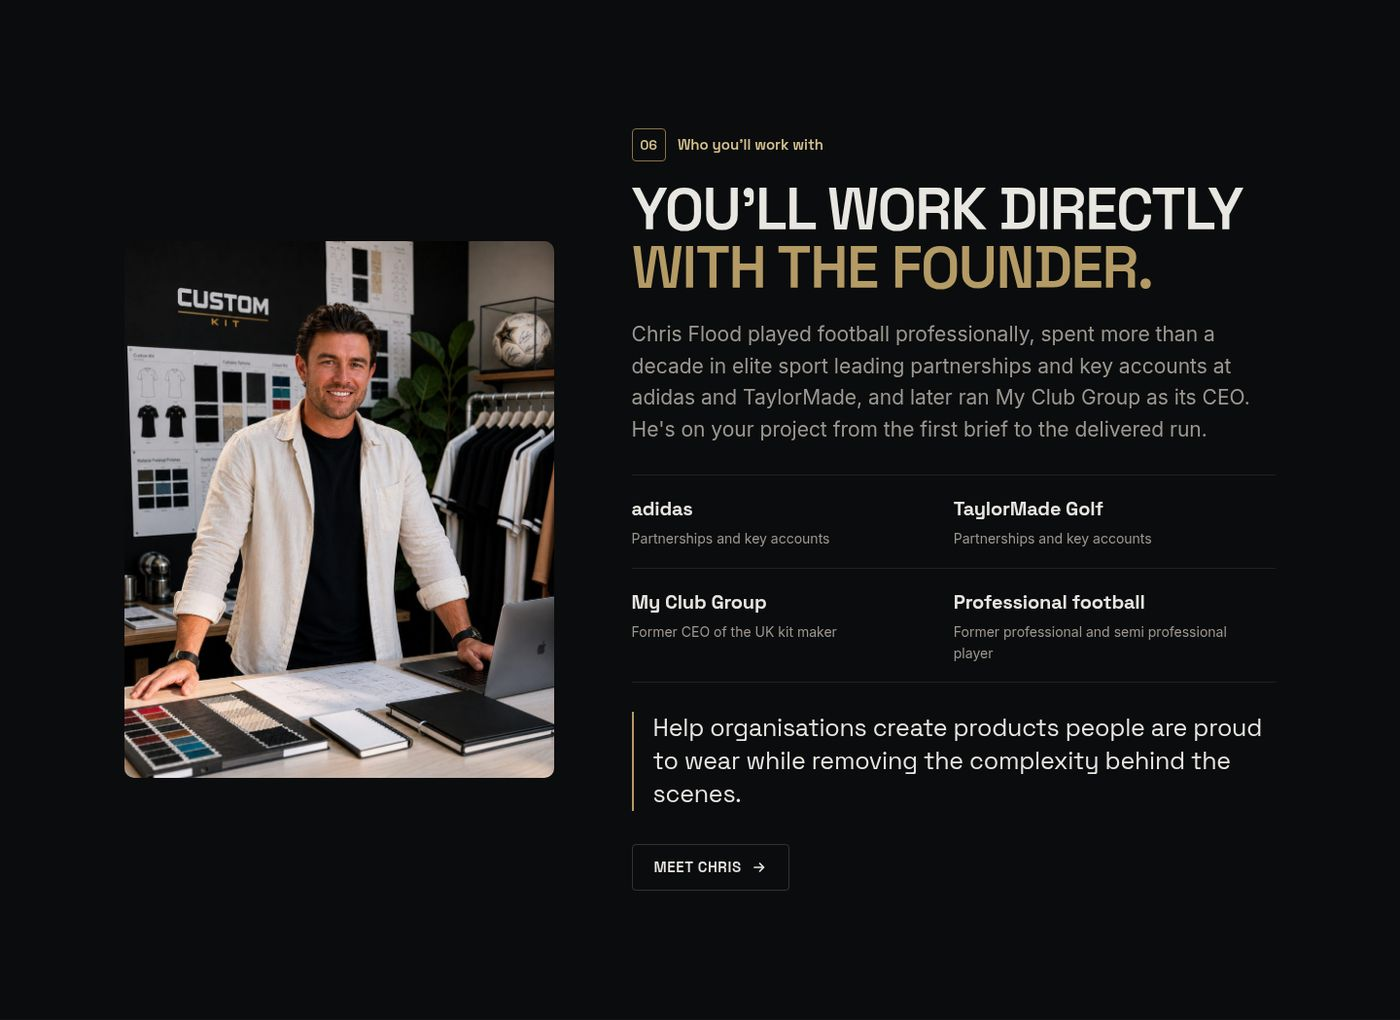
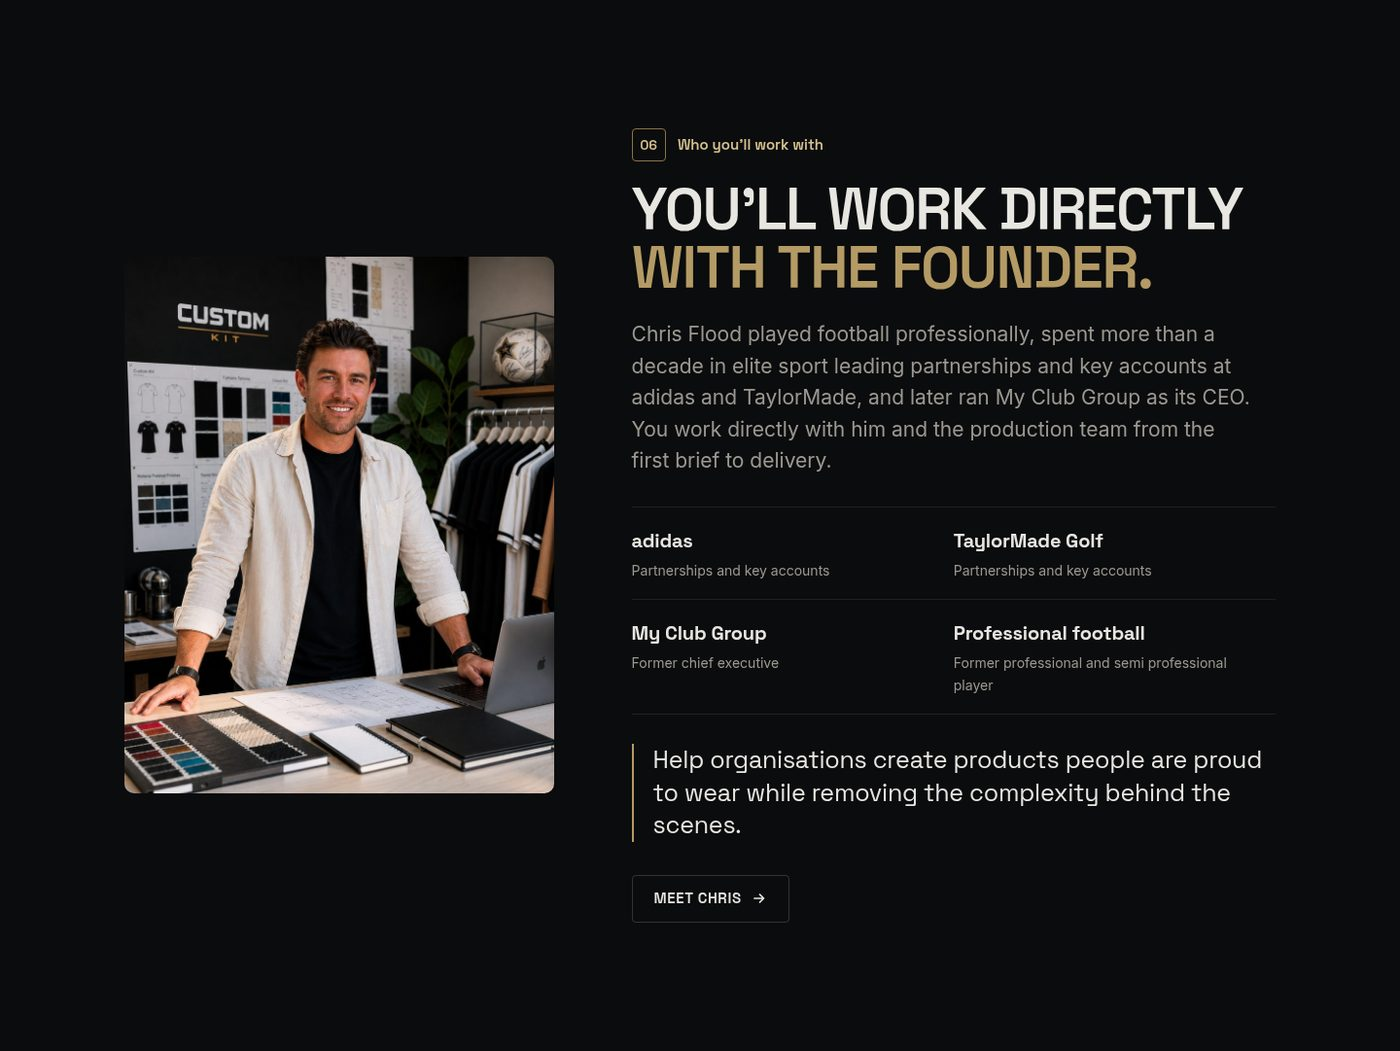
customkit: three recheck passes, claim fixes, mobile tables, QA harness PAGE option
Claude-Session: https://claude.ai/code/session_018dXAfsNA5FkDkqoNSjTinG

diff --git a/state/prototypes/customkit/deck/index.html b/state/prototypes/customkit/deck/index.html
@@ -219,7 +219,7 @@ section{padding:clamp(80px,10vw,136px) 0;position:relative}
     <h2 class="h2 rv">A brand buyer can&#8217;t see <span class="dim">anything you&#8217;ve made.</span></h2>
     <p class="lede rv">The .com is well built and looks premium. The gap is proof. These are the three things a buyer runs into, each checked against your live pages on 23 September.</p>
     <div class="find" style="border-color:var(--line-d)">
-      <div><span class="tag">No work on show</span><h3>Every product photo is a blank garment.</h3><p style="color:var(--sub-d)">The homepage images are staged shots of unbranded garments in a dark studio. None is a kit CustomKit made for someone, and none of the 51 pages on the .com names a client, quotes a customer or shows a case study.</p></div>
+      <div><span class="tag">No work on show</span><h3>No page names a client or quotes a customer.</h3><p style="color:var(--sub-d)">The three product images under What we can produce are staged studio shots of garments with no branding on them, and none of the 51 pages on the .com names a client, quotes a customer or shows a case study.</p></div>
       <div class="shot rv"><img src="img/old-produce.jpg" alt="The What we can produce section on customkit.com showing blank black and cream garments" width="1400" height="875" loading="lazy"></div>
     </div>
     <div class="find" style="border-color:var(--line-d)">
@@ -227,7 +227,7 @@ section{padding:clamp(80px,10vw,136px) 0;position:relative}
       <div class="shot rv"><img src="img/old-500.jpg" alt="The end of the Why us page on customkit.com with the line Join 500+ brands already manufacturing with CustomKit" width="1120" height="480" loading="lazy"></div>
     </div>
     <div class="find" style="border-color:var(--line-d)">
-      <div><span class="tag">Proof in the wrong place</span><h3>Your real reviews sit next to someone else&#8217;s.</h3><p style="color:var(--sub-d)">Trustpilot has nine five star reviews since April 2026, two of them praising you by name. They share a page with the previous owner&#8217;s one star reviews, and the second review a visitor sees is &#8220;Don&#8217;t touch, you will lose your money&#8221; from February 2025. The only proof that exists lives there, not on your site.</p></div>
+      <div><span class="tag">Proof in the wrong place</span><h3>Your real reviews sit next to someone else&#8217;s.</h3><p style="color:var(--sub-d)">Trustpilot has nine five star reviews since April 2026, two of them praising you by name. They share a page with the previous owner&#8217;s one star reviews, and the second review a visitor sees is a one star from February 2025 warning people they&#8217;ll lose their money. The only proof that exists lives there, not on your site.</p></div>
       <div class="shot rv"><img src="img/tp.jpg" alt="The Custom Kit Group Limited Trustpilot page with Paul's five star review beside a one star review from February 2025" width="1300" height="760" loading="lazy"></div>
     </div>
   </div>
@@ -243,8 +243,7 @@ section{padding:clamp(80px,10vw,136px) 0;position:relative}
         <thead><tr><th>Question</th><th>Answers on your pages</th><th>Where</th></tr></thead>
         <tbody>
           <tr><td data-l="Question">What&#8217;s the minimum order?</td><td data-l="Answers on your pages" class="q">No minimum. 10 garments. 15 units. 25 units. 50 units. Lowest option on the brief form is 50 to 100 units.</td><td data-l="Where">Twenty three .com pages, the kit designer, golf, white label and drops, merchandise, Start a project</td></tr>
-          <tr><td data-l="Question">How long does production take?</td><td data-l="Answers on your pages" class="q">4 to 6 weeks. As little as 4 weeks. 2 to 3 weeks. 3 to 4 weeks.</td><td data-l="Where">Seventeen .com pages, Why us, the kit designer, four .uk pages</td></tr>
-          <tr><td data-l="Question">How long for samples?</td><td data-l="Answers on your pages" class="q">5 to 7 days. Within two weeks.</td><td data-l="Where">Sixteen pages against ten</td></tr>
+          <tr><td data-l="Question">How long does production take?</td><td data-l="Answers on your pages" class="q">4 to 6 weeks. As little as 4 weeks. 3 to 5 weeks. 2 to 3 weeks. 3 to 4 weeks.</td><td data-l="Where">Seventeen .com pages, Why us and the football kit builder page, four more .com pages, the kit designer, four .uk pages</td></tr>
           <tr><td data-l="Question">Are names and numbers included?</td><td data-l="Answers on your pages" class="q">All included in the price. Available as add ons.</td><td data-l="Where">Kit designer home against its own price list</td></tr>
           <tr><td data-l="Question">Where do I send a brief?</td><td data-l="Answers on your pages" class="q">Four different forms.</td><td data-l="Where">Start a project, Enquire, Build a brand, Brand design service</td></tr>
         </tbody>
@@ -278,9 +277,9 @@ section{padding:clamp(80px,10vw,136px) 0;position:relative}
       <div class="card rv"><div class="im"><img src="img/new-reviews.jpg" alt="All nine reviews on the new reviews page" width="1400" height="1197" loading="lazy"></div><div class="tx"><h3>Your reviews, up front</h3><p>All nine, word for word, set out as signed off delivery notes and linked to Trustpilot, with a line explaining that older reviews belong to the previous owner.</p></div></div>
       <div class="card rv"><div class="im"><img src="img/new-m-studio.jpg" alt="The live spec sheet on a phone" width="700" height="1515" loading="lazy" style="object-position:50% 20%"></div><div class="tx"><h3>A spec sheet in the first screen</h3><p>Six of your own kit designer renders, recoloured live. The design and colours a buyer picks carry straight into their brief.</p></div></div>
       <div class="card rv"><div class="im"><img src="img/new-chart.jpg" alt="The production schedule chart" width="1400" height="1081" loading="lazy"></div><div class="tx"><h3>One schedule, one set of numbers</h3><p>A production chart built from the lead times most of your pages already use, 24 hours, 48 hours, 5 to 7 days and 4 to 6 weeks.</p></div></div>
-      <div class="card rv"><div class="im"><img src="img/new-price.jpg" alt="The brand design service pricing" width="1400" height="821" loading="lazy"></div><div class="tx"><h3>Prices a founder can act on</h3><p>The &#163;495 and &#163;995 brand design service moves from one page of 51 to the homepage, with its own booking form.</p></div></div>
-      <div class="card rv"><div class="im"><img src="img/new-founder.jpg" alt="The founder section with Chris's photo and track record" width="1400" height="1020" loading="lazy"></div><div class="tx"><h3>You, front and centre</h3><p>adidas, TaylorMade, My Club Group and the pitch, with your own photo, checked against your founder page.</p></div></div>
-      <div class="card rv"><div class="im"><img src="img/new-make.jpg" alt="The product categories on the new homepage" width="1400" height="1522" loading="lazy"></div><div class="tx"><h3>Golf and padel beside football</h3><p>Each gets its own place on the brand site, with the minimum order for every garment stated plainly.</p></div></div>
+      <div class="card rv"><div class="im"><img src="img/new-price.jpg" alt="The brand design service pricing" width="1400" height="821" loading="lazy"></div><div class="tx"><h3>Prices a founder can act on</h3><p>The &#163;495 and &#163;995 brand design service goes on the homepage, which doesn&#8217;t mention it today, with its own booking form.</p></div></div>
+      <div class="card rv"><div class="im"><img src="img/new-founder.jpg" alt="The founder section with Chris's photo and track record" width="1400" height="1051" loading="lazy"></div><div class="tx"><h3>You, front and centre</h3><p>adidas, TaylorMade, My Club Group and the pitch, with your own photo, checked against your founder page.</p></div></div>
+      <div class="card rv"><div class="im"><img src="img/new-make.jpg" alt="The product categories on the new homepage" width="1400" height="1522" loading="lazy"></div><div class="tx"><h3>Golf and padel beside football</h3><p>Each gets its own section on the brand site next to football, with golf&#8217;s 15 unit minimum stated where a buyer reads it.</p></div></div>
     </div>
   </div>
 </section>
@@ -297,7 +296,7 @@ section{padding:clamp(80px,10vw,136px) 0;position:relative}
           <tr><td data-l="What CustomKit needs">Hold up when compared with rivals</td><td data-l="What stands in the way today">Rivals show testimonials and CustomKit shows none</td><td data-l="What the new site does">Every review quoted word for word and linked to Trustpilot</td></tr>
           <tr><td data-l="What CustomKit needs">Look established from day one</td><td data-l="What stands in the way today">&#8220;500+ brands&#8221; a buyer can&#8217;t check</td><td data-l="What the new site does">Only claims that trace to a source, with the company number in the footer</td></tr>
           <tr><td data-l="What CustomKit needs">Make ordering feel safe</td><td data-l="What stands in the way today">Minimums and lead times change from page to page</td><td data-l="What the new site does">One schedule and a stated minimum for each type of garment</td></tr>
-          <tr><td data-l="What CustomKit needs">Win founders starting a brand</td><td data-l="What stands in the way today">The &#163;495 service is one page among 51</td><td data-l="What the new site does">On the homepage with prices and a booking form</td></tr>
+          <tr><td data-l="What CustomKit needs">Win founders starting a brand</td><td data-l="What stands in the way today">The &#163;495 service isn&#8217;t on your homepage</td><td data-l="What the new site does">On the homepage with prices and a booking form</td></tr>
           <tr><td data-l="What CustomKit needs">Keep clubs on customkit.uk</td><td data-l="What stands in the way today">A pop up on the first page anyone lands on</td><td data-l="What the new site does">A slim bar and a clubs page with your real kit prices</td></tr>
         </tbody>
       </table>

diff --git a/state/prototypes/customkit/site/reviews.html b/state/prototypes/customkit/site/reviews.html
@@ -50,8 +50,11 @@
 
 <section class="sec paper" aria-labelledby="t-all">
   <div class="wrap">
-    <h2 class="sr rv" id="t-all">All nine reviews</h2>
-    <div class="notes" style="margin-top:0">
+    <div class="head">
+      <p class="kick rv"><span class="n">01</span>Reviews on Trustpilot</p>
+      <h2 class="h2 rv" id="t-all">All nine, <span class="dim">newest first.</span></h2>
+    </div>
+    <div class="notes" style="margin-top:44px">
       <article class="note rv"><div class="nh"><span>Reviewed 4 June 2026</span><span class="stars" role="img" aria-label="Five stars"><svg viewBox="0 0 20 20" aria-hidden="true"><path fill="currentColor" d="M10 1.8l2.5 5.2 5.7.8-4.1 4 1 5.6L10 14.7l-5.1 2.7 1-5.6-4.1-4 5.7-.8z"/></svg><svg viewBox="0 0 20 20" aria-hidden="true"><path fill="currentColor" d="M10 1.8l2.5 5.2 5.7.8-4.1 4 1 5.6L10 14.7l-5.1 2.7 1-5.6-4.1-4 5.7-.8z"/></svg><svg viewBox="0 0 20 20" aria-hidden="true"><path fill="currentColor" d="M10 1.8l2.5 5.2 5.7.8-4.1 4 1 5.6L10 14.7l-5.1 2.7 1-5.6-4.1-4 5.7-.8z"/></svg><svg viewBox="0 0 20 20" aria-hidden="true"><path fill="currentColor" d="M10 1.8l2.5 5.2 5.7.8-4.1 4 1 5.6L10 14.7l-5.1 2.7 1-5.6-4.1-4 5.7-.8z"/></svg><svg viewBox="0 0 20 20" aria-hidden="true"><path fill="currentColor" d="M10 1.8l2.5 5.2 5.7.8-4.1 4 1 5.6L10 14.7l-5.1 2.7 1-5.6-4.1-4 5.7-.8z"/></svg></span></div>
         <q>Chris was fantastic to work with on this project. We came to Custom Kit with a request that needed a quick turnaround. His communication was excellent throughout and the final kit we received was brilliant. Would highly recommend</q>
         <div class="who"><b>Paul</b><span>Custom football shirts</span></div></article>

diff --git a/state/prototypes/customkit/build/pages/index.html b/state/prototypes/customkit/build/pages/index.html
@@ -152,11 +152,11 @@
       <div>
         <p class="kick rv"><span class="n">06</span>Who you'll work with</p>
         <h2 class="h2 rv" id="t-founder">You'll work directly <span class="dim">with the founder.</span></h2>
-        <p class="lede rv">Chris Flood played football professionally, spent more than a decade in elite sport leading partnerships and key accounts at adidas and TaylorMade, and later ran My Club Group as its CEO. He's on your project from the first brief to the delivered run.</p>
+        <p class="lede rv">Chris Flood played football professionally, spent more than a decade in elite sport leading partnerships and key accounts at adidas and TaylorMade, and later ran My Club Group as its CEO. You work directly with him and the production team from the first brief to delivery.</p>
         <div class="creds rv">
           <div><b>adidas</b><span>Partnerships and key accounts</span></div>
           <div><b>TaylorMade Golf</b><span>Partnerships and key accounts</span></div>
-          <div><b>My Club Group</b><span>Former CEO of the UK kit maker</span></div>
+          <div><b>My Club Group</b><span>Former chief executive</span></div>
           <div><b>Professional football</b><span>Former professional and semi professional player</span></div>
         </div>
         <p class="pull rv">Help organisations create products people are proud to wear while removing the complexity behind the scenes.</p>

diff --git a/state/prototypes/customkit/site/index.html b/state/prototypes/customkit/site/index.html
@@ -206,11 +206,11 @@
       <div>
         <p class="kick rv"><span class="n">06</span>Who you'll work with</p>
         <h2 class="h2 rv" id="t-founder">You'll work directly <span class="dim">with the founder.</span></h2>
-        <p class="lede rv">Chris Flood played football professionally, spent more than a decade in elite sport leading partnerships and key accounts at adidas and TaylorMade, and later ran My Club Group as its CEO. He's on your project from the first brief to the delivered run.</p>
+        <p class="lede rv">Chris Flood played football professionally, spent more than a decade in elite sport leading partnerships and key accounts at adidas and TaylorMade, and later ran My Club Group as its CEO. You work directly with him and the production team from the first brief to delivery.</p>
         <div class="creds rv">
           <div><b>adidas</b><span>Partnerships and key accounts</span></div>
           <div><b>TaylorMade Golf</b><span>Partnerships and key accounts</span></div>
-          <div><b>My Club Group</b><span>Former CEO of the UK kit maker</span></div>
+          <div><b>My Club Group</b><span>Former chief executive</span></div>
           <div><b>Professional football</b><span>Former professional and semi professional player</span></div>
         </div>
         <p class="pull rv">Help organisations create products people are proud to wear while removing the complexity behind the scenes.</p>

diff --git a/tools/deck-qa/qa.js b/tools/deck-qa/qa.js
@@ -1,12 +1,12 @@
 // Cold-load QA for a built deck or prototype. Nothing is forced.
-// Usage:  BASE=http://127.0.0.1:8788 node tools/deck-qa/qa.js
+// Usage:  BASE=http://127.0.0.1:8788 [PAGE=other.html] node tools/deck-qa/qa.js
 // Serve the folder first:  (cd <folder> && python3 -m http.server 8788 &)
 // Against a deployed site, curl the live HTML plus its assets into a local
 // folder and serve that, because the agent proxy resets live Chromium tunnels.
 const { chromium } = require('/opt/node22/lib/node_modules/playwright');
 const CHROME = '/opt/pw-browsers/chromium-1194/chrome-linux/chrome';
 const BASE = process.env.BASE || 'http://127.0.0.1:8788';
-const URL = BASE + '/index.html';
+const URL = BASE + '/' + (process.env.PAGE || 'index.html');  // PAGE=make.html for multi page sites
 
 (async () => {
   const b = await chromium.launch({ executablePath: CHROME, args: ['--no-sandbox'] });

diff --git a/state/prototypes/customkit/build/pages/founder.html b/state/prototypes/customkit/build/pages/founder.html
@@ -25,7 +25,7 @@
       <div class="card rv"><h3>The pitch</h3><p>Former professional and semi professional footballer, which is where he first saw what clubs and players actually need from their kit.</p></div>
       <div class="card rv d1"><h3>adidas</h3><p>Partnerships and key accounts across club, federation and retail environments.</p></div>
       <div class="card rv d2"><h3>TaylorMade Golf</h3><p>Partnerships and key accounts in golf, the category CustomKit now makes premium apparel for.</p></div>
-      <div class="card rv d3"><h3>My Club Group</h3><p>CEO of the UK kit production company, before founding C3 Sports Advisory and taking on CustomKit.</p></div>
+      <div class="card rv d3"><h3>My Club Group</h3><p>Chief executive, before he founded C3 Sports Advisory and took on CustomKit.</p></div>
     </div>
     <div class="split" style="margin-top:64px;align-items:start">
       <div>

diff --git a/state/prototypes/customkit/site/founder.html b/state/prototypes/customkit/site/founder.html
@@ -62,7 +62,7 @@
       <div class="card rv"><h3>The pitch</h3><p>Former professional and semi professional footballer, which is where he first saw what clubs and players actually need from their kit.</p></div>
       <div class="card rv d1"><h3>adidas</h3><p>Partnerships and key accounts across club, federation and retail environments.</p></div>
       <div class="card rv d2"><h3>TaylorMade Golf</h3><p>Partnerships and key accounts in golf, the category CustomKit now makes premium apparel for.</p></div>
-      <div class="card rv d3"><h3>My Club Group</h3><p>CEO of the UK kit production company, before founding C3 Sports Advisory and taking on CustomKit.</p></div>
+      <div class="card rv d3"><h3>My Club Group</h3><p>Chief executive, before he founded C3 Sports Advisory and took on CustomKit.</p></div>
     </div>
     <div class="split" style="margin-top:64px;align-items:start">
       <div>

diff --git a/state/prototypes/customkit/build/pages/launch.html b/state/prototypes/customkit/build/pages/launch.html
@@ -28,7 +28,7 @@
       <div class="step rv"><span class="no">03</span><div><h3>Drop page and pre launch</h3><p>A branded drop page with payments, a countdown and email capture, plus social assets to build anticipation.</p></div>
         <ul><li>Countdown timer and email capture</li><li>Works with your existing store or as a hosted page</li></ul></div>
       <div class="step rv"><span class="no">04</span><div><h3>Production and fulfilment</h3><p>When the order window closes, every unit is made, inspected, packed and shipped under your brand with full tracking.</p></div>
-        <ul><li>Made to the number you sold</li><li>Global delivery with tracking</li></ul></div>
+        <ul><li>Made once the order window closes</li><li>Global delivery with tracking</li></ul></div>
     </div>
     <div class="facts">
       <div class="rv"><b>25</b><span>units, the smallest drop we'll run</span></div>

diff --git a/state/prototypes/customkit/site/launch.html b/state/prototypes/customkit/site/launch.html
@@ -65,7 +65,7 @@
       <div class="step rv"><span class="no">03</span><div><h3>Drop page and pre launch</h3><p>A branded drop page with payments, a countdown and email capture, plus social assets to build anticipation.</p></div>
         <ul><li>Countdown timer and email capture</li><li>Works with your existing store or as a hosted page</li></ul></div>
       <div class="step rv"><span class="no">04</span><div><h3>Production and fulfilment</h3><p>When the order window closes, every unit is made, inspected, packed and shipped under your brand with full tracking.</p></div>
-        <ul><li>Made to the number you sold</li><li>Global delivery with tracking</li></ul></div>
+        <ul><li>Made once the order window closes</li><li>Global delivery with tracking</li></ul></div>
     </div>
     <div class="facts">
       <div class="rv"><b>25</b><span>units, the smallest drop we'll run</span></div>

diff --git a/state/prototypes/customkit/build/pages/reviews.html b/state/prototypes/customkit/build/pages/reviews.html
@@ -13,8 +13,11 @@
 
 <section class="sec paper" aria-labelledby="t-all">
   <div class="wrap">
-    <h2 class="sr rv" id="t-all">All nine reviews</h2>
-    <div class="notes" style="margin-top:0">
+    <div class="head">
+      <p class="kick rv"><span class="n">01</span>Reviews on Trustpilot</p>
+      <h2 class="h2 rv" id="t-all">All nine, <span class="dim">newest first.</span></h2>
+    </div>
+    <div class="notes" style="margin-top:44px">
       <article class="note rv"><div class="nh"><span>Reviewed 4 June 2026</span>{{STARS}}</div>
         <q>Chris was fantastic to work with on this project. We came to Custom Kit with a request that needed a quick turnaround. His communication was excellent throughout and the final kit we received was brilliant. Would highly recommend</q>
         <div class="who"><b>Paul</b><span>Custom football shirts</span></div></article>

diff --git a/state/prototypes/customkit/research.md b/state/prototypes/customkit/research.md
@@ -92,7 +92,7 @@ no RENDER NOT TRUSTED.
    "Minimum order 10 garments" on design.customkit.com and /prices, lowest brief
    option "50–100 units" on /start-a-project. Lead time, "4–6 weeks" on 17 .com pages, "as
    little as 4 weeks" on 2, "2-3 Weeks" on the designer, "3-4 weeks" on 4 .uk pages. Samples,
-   "5–7 days" on 16 pages, "within two weeks" on 10. Names and numbers, "all included in the
+   "5–7 days" on 16 pages, "within two weeks" on 14 (recounted 2026-09-23 on pass 2; the earlier 10 was wrong). Dropped from the deck, since 5 to 7 working days sits inside two weeks and is not a real conflict. Names and numbers, "all included in the
    price" on the designer home and "available as add-ons" on /prices.
 5. **Four enquiry forms** on the .com (/start-a-project, /enquire, /build-a-brand,
    /brand-design-service), replies promised "within 24 hours" on six pages and a proposal
@@ -207,3 +207,13 @@ design.customkit.com "Minimum order 10 garments". The prototype states the per g
 figures in its FAQ instead of one blanket number. /limited-edition-drops also lists
 "RECENT PRODUCTION RUNS" Dusk Rose hoodie, Pine quarter zip, Sandstone oversized tee, the
 only named runs on the .com, with no client or brand named.
+
+## Pass 2 recheck, 2026-09-23
+
+- "3–5 weeks" lead time found on four more .com pages (i-designed-this-in-chatgpt, turn-design-into-product, manufacturer-for-clubs-and-teams, who-can-make-my-design). Added to the deck terms row.
+- The £495 service appears on six .com pages (brand-design-service plus a "Design Service — £495" strip on five others) and not on the homepage. The deck line "one page among 51" was wrong and now reads "isn't on your homepage". Control, £495 detected on those six pages by the same grep.
+- "Within two weeks" (samples) recounted at 14 pages, and the row was dropped as not a real conflict.
+- "As little as 4 weeks" is on Why us and football-kit-builder, both named now.
+- "UK kit maker" description of My Club Group had no source and was removed from the site.
+- Four forms confirmed live in Chromium (start-a-project 11 inputs, enquire 6, build-a-brand 6, brand-design-service 7), controls why-us and terms show 0.
+- Trustpilot re-rendered, 54 reviews, 4.2, nine since April 2026 all five stars, company text "purchased in January 2026 from Sportsmax".
